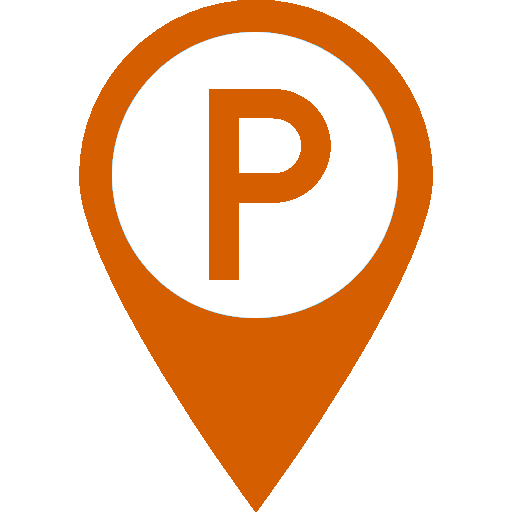
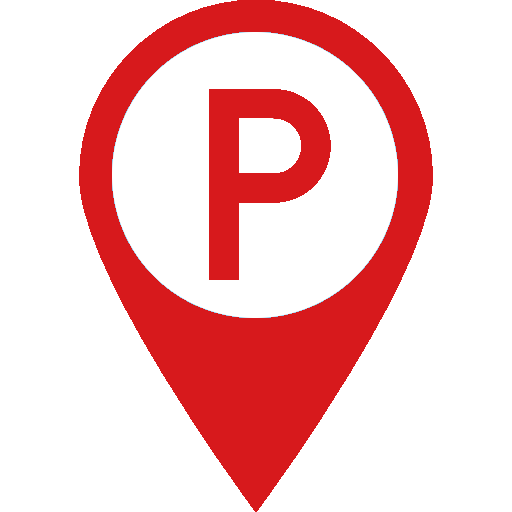
fixed bug with private parking spots

Changed region(s): [[0.1562, 0.0, 0.8438, 1.0], [0.4062, 0.1562, 0.6562, 0.5625]]

diff --git a/frontend/src/Content/MapContent.jsx b/frontend/src/Content/MapContent.jsx
@@ -203,14 +203,19 @@ class MapContent extends Component {
                 popup = "<b>" + facility.name + "</b>";
                 if (facility.usage !== "onstreet") {
                     if (facility.dyna !== undefined || facility.dynamicDataUrl !== null) {
-                        $.getJSON("http://127.0.0.1:8000/parkingdata/request/dynamicurl/" + facility.uuid + "/", function (data) {
-                            if (data.parkingFacilityDynamicInformation !== undefined && data.parkingFacilityDynamicInformation.facilityActualStatus.parkingCapacity !== undefined) {
-                                popup += "<br>Vacant spaces: " + data.parkingFacilityDynamicInformation.facilityActualStatus.vacantSpaces;
-                            }
-                            popup += main.getStaticString(facility);
-                            mark.getPopup().setContent(popup);
+                        if(facility.limitedAccess === false) {
+                            $.getJSON("http://127.0.0.1:8000/parkingdata/dynamicdata/" + facility.uuid + "/", function (data) {
+                                if (data.parkingFacilityDynamicInformation !== undefined && data.parkingFacilityDynamicInformation.facilityActualStatus.parkingCapacity !== undefined) {
+                                    popup += "<br>Vacant spaces: " + data.parkingFacilityDynamicInformation.facilityActualStatus.vacantSpaces;
+                                }
+                                popup += main.getStaticString(facility);
+                                mark.getPopup().setContent(popup);
 
-                        });
+                            });
+                        }else{
+                            popup+=main.getStaticString(facility);
+                            mark.getPopup().setContent(popup);
+                        }
                     } else {
                         popup += main.getStaticString(facility);
                         mark.getPopup().setContent(popup);
@@ -253,12 +258,12 @@ class MapContent extends Component {
     getStaticString(facility) {
         return "<br>Limited API access: " + facility.limitedAccess +
             "<br>Location on map: (" + facility.latitude + ", " + facility.longitude + ")" +
-            "<br>Capacity: " + (facility.capacity ? "Available - " + facility.capacity : "<span class='text-danger'>No Capacity available</span>") +
-            "<br>Tariffs: " + (facility.tariffs ? "Available" : "<span class='text-danger'>No Tariffs available</span>") +
-            "<br>Min. height in meters: " + (facility.minimumHeightInMeters !== null ? "Available - " + facility.minimumHeightInMeters : "<span class='text-danger'>No parking restrictions available</span>") +
-            "<br>Opening Hours: " + (facility.openingTimes ? "Available" : "<span class='text-danger'>No opening hours available</span>") +
-            "<br>Contact Person: " + (facility.contactPersons ? "Available" : "<span class='text-danger'>No contact persons available</span>") +
-            "<br>Access points: " + (facility.accessPoints ? "Available" : "<span class='text-danger'>No Access points available</span>") +
+            "<br>Capacity: " + (facility.capacity ? "Available - " + facility.capacity : "<span class='text-danger'><b>No Capacity available</b></span>") +
+            "<br>Tariffs: " + (facility.tariffs ? "Available" : "<span class='text-danger'><b>No Tariffs available</b></span>") +
+            "<br>Min. height in meters: " + (facility.minimumHeightInMeters !== null ? "Available - " + facility.minimumHeightInMeters : "<span class='text-danger'><b>No parking restrictions available</b></span>") +
+            "<br>Opening Hours: " + (facility.openingTimes ? "Available" : "<span class='text-danger'><b>No opening hours available</b></span>") +
+            "<br>Contact Person: " + (facility.contactPersons ? "Available" : "<span class='text-danger'><b>No contact persons available</b></span>") +
+            "<br>Access points: " + (facility.accessPoints ? "Available" : "<span class='text-danger'><b>No Access points available</b></span>") +
             "<br><a target='_blank' class='btn-sm btn-info detailButton' href='http://127.0.0.1:8000/parkingdata/html/" + facility.uuid + "'>Go To Details</a>";
 
     }
@@ -327,7 +332,7 @@ class MapContent extends Component {
         // There is one layer per marker color, there is no way to do it with
         // only one heatmap
         let heatmapColors = [
-            ["bad", "#d55e00"], // Vermillion
+            ["bad", "#d7191c"], // Red
             ["average", "#e69f00"], // Orange
             ["good", "#56b4e9"],  // Sky blue
         ];
